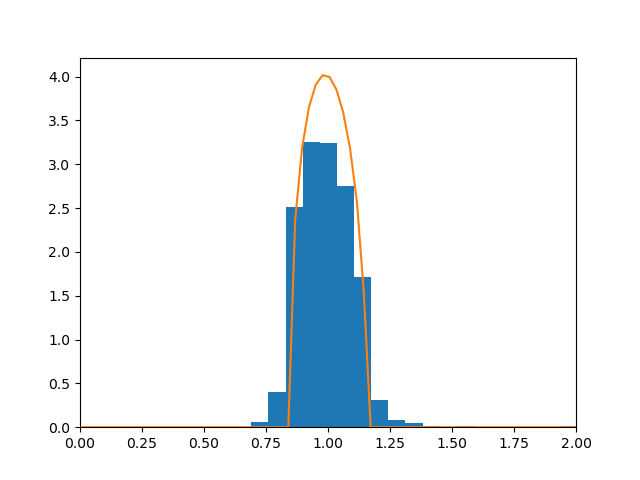
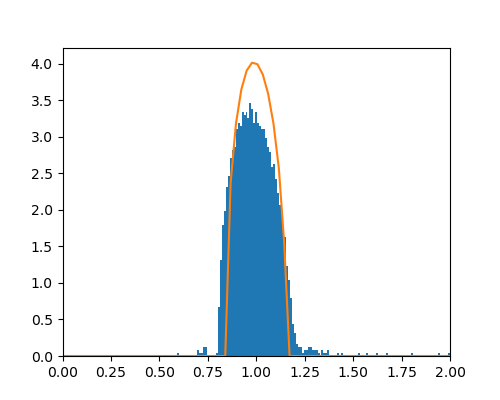
chore: add SNR to real data marginals

Changed region(s): [[0.06, 0.12, 0.93, 0.96]]

diff --git a/ebpca/empbayes.py b/ebpca/empbayes.py
@@ -88,9 +88,9 @@ class _BaseEmpiricalBayes(ABC):
             if self.rank > 1:
                 if self.print_SNR:
                     axes[dim].set_title("Iteration %i, %s%i, SNR=%.2f" % \
-                                        (self.iter, self.PCname.title(), dim + 1, (mu[dim, dim])**2/ (cov[dim, dim])))
+                                        (self.iter, self.PCnam, dim + 1, (mu[dim, dim])**2/ (cov[dim, dim])))
                 else:
-                    axes[dim].set_title("Iteration %i, %s%i" % (self.iter, self.PCname.title(), dim + 1))
+                    axes[dim].set_title("Iteration %i, %s%i" % (self.iter, self.PCname, dim + 1))
             else:
                 if self.print_SNR:
                     axes[dim].set_title("Iteration %i, %s, SNR=%.2f" % \

diff --git a/examples/real_data_marginal.py b/examples/real_data_marginal.py
@@ -33,7 +33,7 @@ vTruePriorLoc, vTruePriorWeight = approx_prior(V_star, pcapack.V)
 # initiate denoiser
 udenoiser = NonparEB(optimizer=optimizer, to_save=False)
 vdenoiser = NonparEBChecker(vTruePriorLoc, vTruePriorWeight, optimizer="Mosek",
-                            to_save=True, fig_prefix=fig_prefix, PCname='V', print_SNR=True)
+                            to_save=True, fig_prefix=fig_prefix, PCname='PC', print_SNR=True)
 # run AMP
 U_est, V_est, conv = ebamp_gaussian(pcapack, iters=iters,
                                     udenoiser=udenoiser, vdenoiser=vdenoiser,
